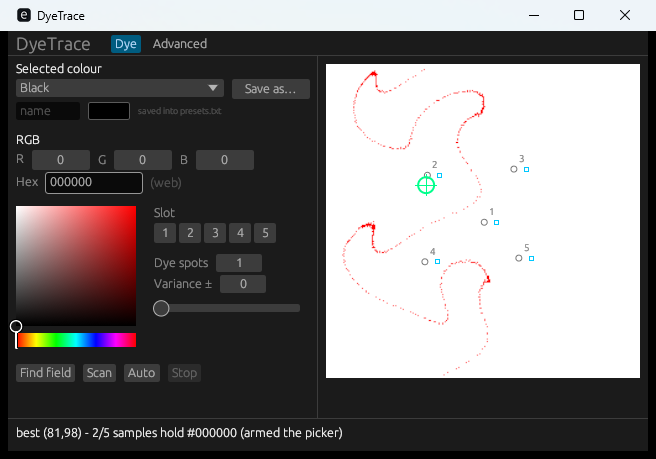
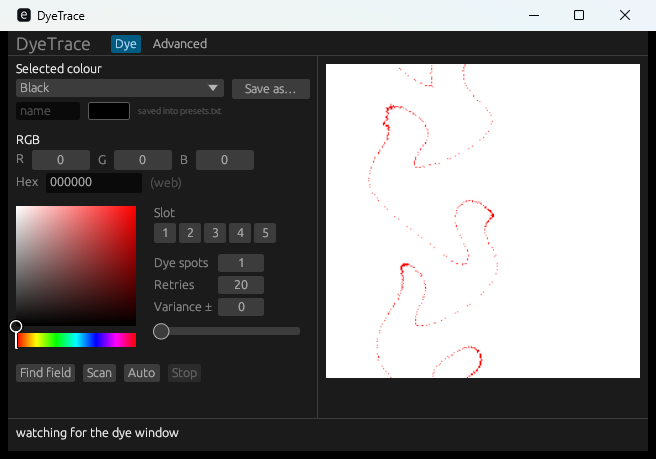
Add a retries box and line the number boxes up
Retries sits under Dye spots: how many new rolls Auto may try after the first before giving up, which is the cycle count the command line calls --cycles. The three number boxes live in a grid now, so Dye spots, Retries and Variance line up vertically whatever their labels are called.

diff --git a/crates/ui/src/app.rs b/crates/ui/src/app.rs
@@ -47,6 +47,8 @@ pub struct DyeTraceApp {
 
     slots: usize,
     variance: u8,
+    /// Rolls Auto may try after the first before giving up.
+    retries: usize,
     /// Slots that must hold the colour, numbered as the dye window does.  Empty
     /// falls back to `slots`.
     slots_only: Vec<usize>,
@@ -81,6 +83,7 @@ impl DyeTraceApp {
             value: 0.0,
             slots: 1,
             variance: 0,
+            retries: 20,
             slots_only: Vec::new(),
             presets: Presets::load(),
             save_name: String::new(),
@@ -121,6 +124,8 @@ impl DyeTraceApp {
             variance: self.variance,
             slots: self.slots,
             slots_only: self.slots_only.clone(),
+            // One roll is the attempt; the rest are retries.
+            max_cycles: self.retries.saturating_add(1),
             dry_run,
             stop: self.worker.stop_flag(),
             ..Options::default()
@@ -338,20 +343,32 @@ impl DyeTraceApp {
         });
 
         ui.add_space(8.0);
-        ui.horizontal(|ui| {
-            ui.label("Dye spots");
-            ui.add_sized(
-                [46.0, 18.0],
-                egui::DragValue::new(&mut self.slots).range(1..=5).speed(0.1),
-            );
-        });
-        ui.horizontal(|ui| {
-            ui.label("Variance ±");
-            ui.add_sized(
-                [46.0, 18.0],
-                egui::DragValue::new(&mut self.variance).range(0..=255).speed(1.0),
-            );
-        });
+        egui::Grid::new("match-controls")
+            .num_columns(2)
+            .spacing([6.0, 4.0])
+            .show(ui, |ui| {
+                ui.label("Dye spots");
+                ui.add_sized(
+                    [46.0, 18.0],
+                    egui::DragValue::new(&mut self.slots).range(1..=5).speed(0.1),
+                );
+                ui.end_row();
+
+                ui.label("Retries");
+                ui.add_sized(
+                    [46.0, 18.0],
+                    egui::DragValue::new(&mut self.retries).range(0..=99).speed(0.1),
+                );
+                ui.end_row();
+
+                ui.label("Variance ±");
+                ui.add_sized(
+                    [46.0, 18.0],
+                    egui::DragValue::new(&mut self.variance).range(0..=255).speed(1.0),
+                );
+                ui.end_row();
+            });
+
         ui.add_space(3.0);
         ui.spacing_mut().slider_width = (ui.available_width() - 10.0).max(60.0);
         ui.add(egui::Slider::new(&mut self.variance, 0..=255).show_value(false));

diff --git a/README.md b/README.md
@@ -84,6 +84,7 @@ rolled again they disappear until the next Scan.
 | Colour square + hue strip | Pick the colour visually; the square follows the chosen colour. |
 | `Slot` | Optional. Press 1–5 to require those samples to hold the colour; press a number again to clear it. Several can be picked. The numbers are the ones the dye window prints above its five previews: 1 is under the cursor, 2–3 above it, 4–5 below. |
 | `Dye spots` | How many of the five samples must hold the colour (1–5). Which samples fill that up is where `Slot` comes in. |
+| `Retries` | How many new rolls Auto may try, after the first, before giving up. |
 | `Variance ±` | Per-channel tolerance as a number, or drag the slider below it. `0` = exact match. |
 | `Find field` | Locate the palette and report where it is. |
 | `Scan` | Read the client's sample offsets, search, and draw the hit map. Nothing is clicked except Pick Color, and only if the picker is not already armed. |
